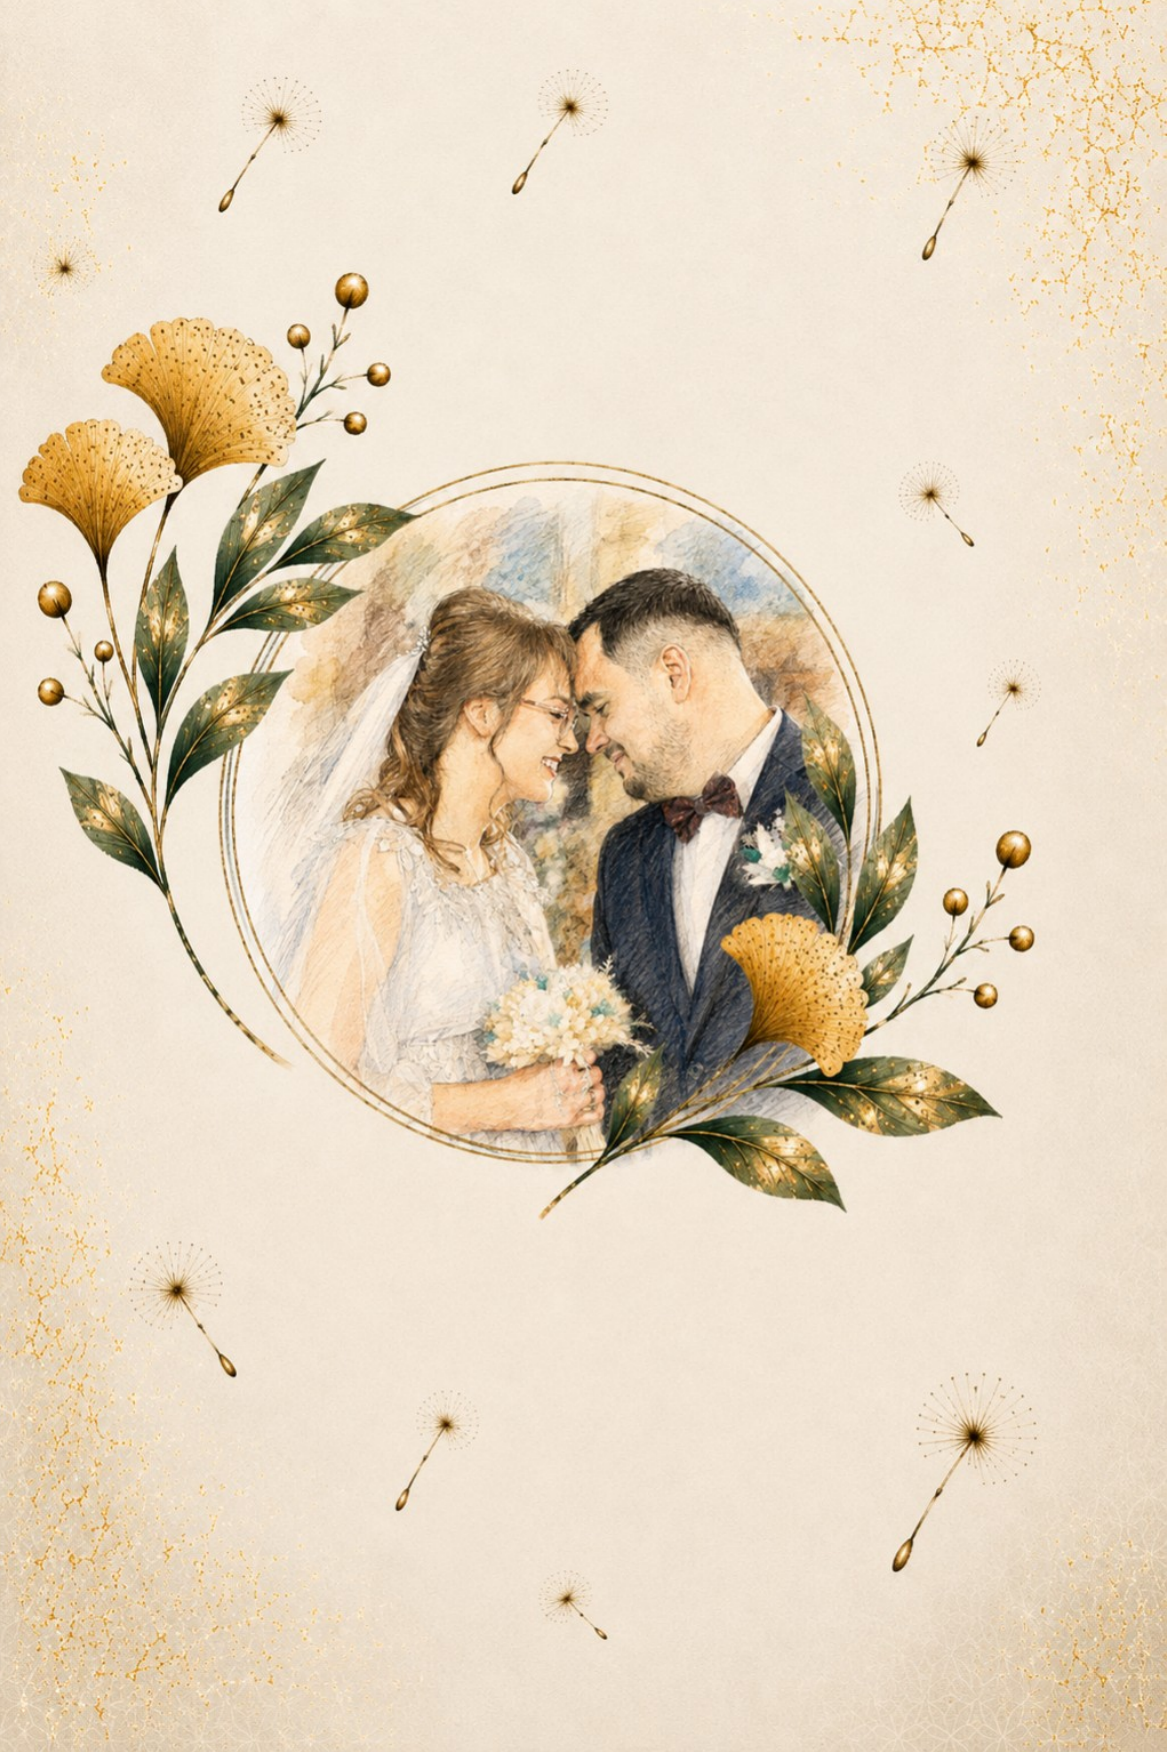
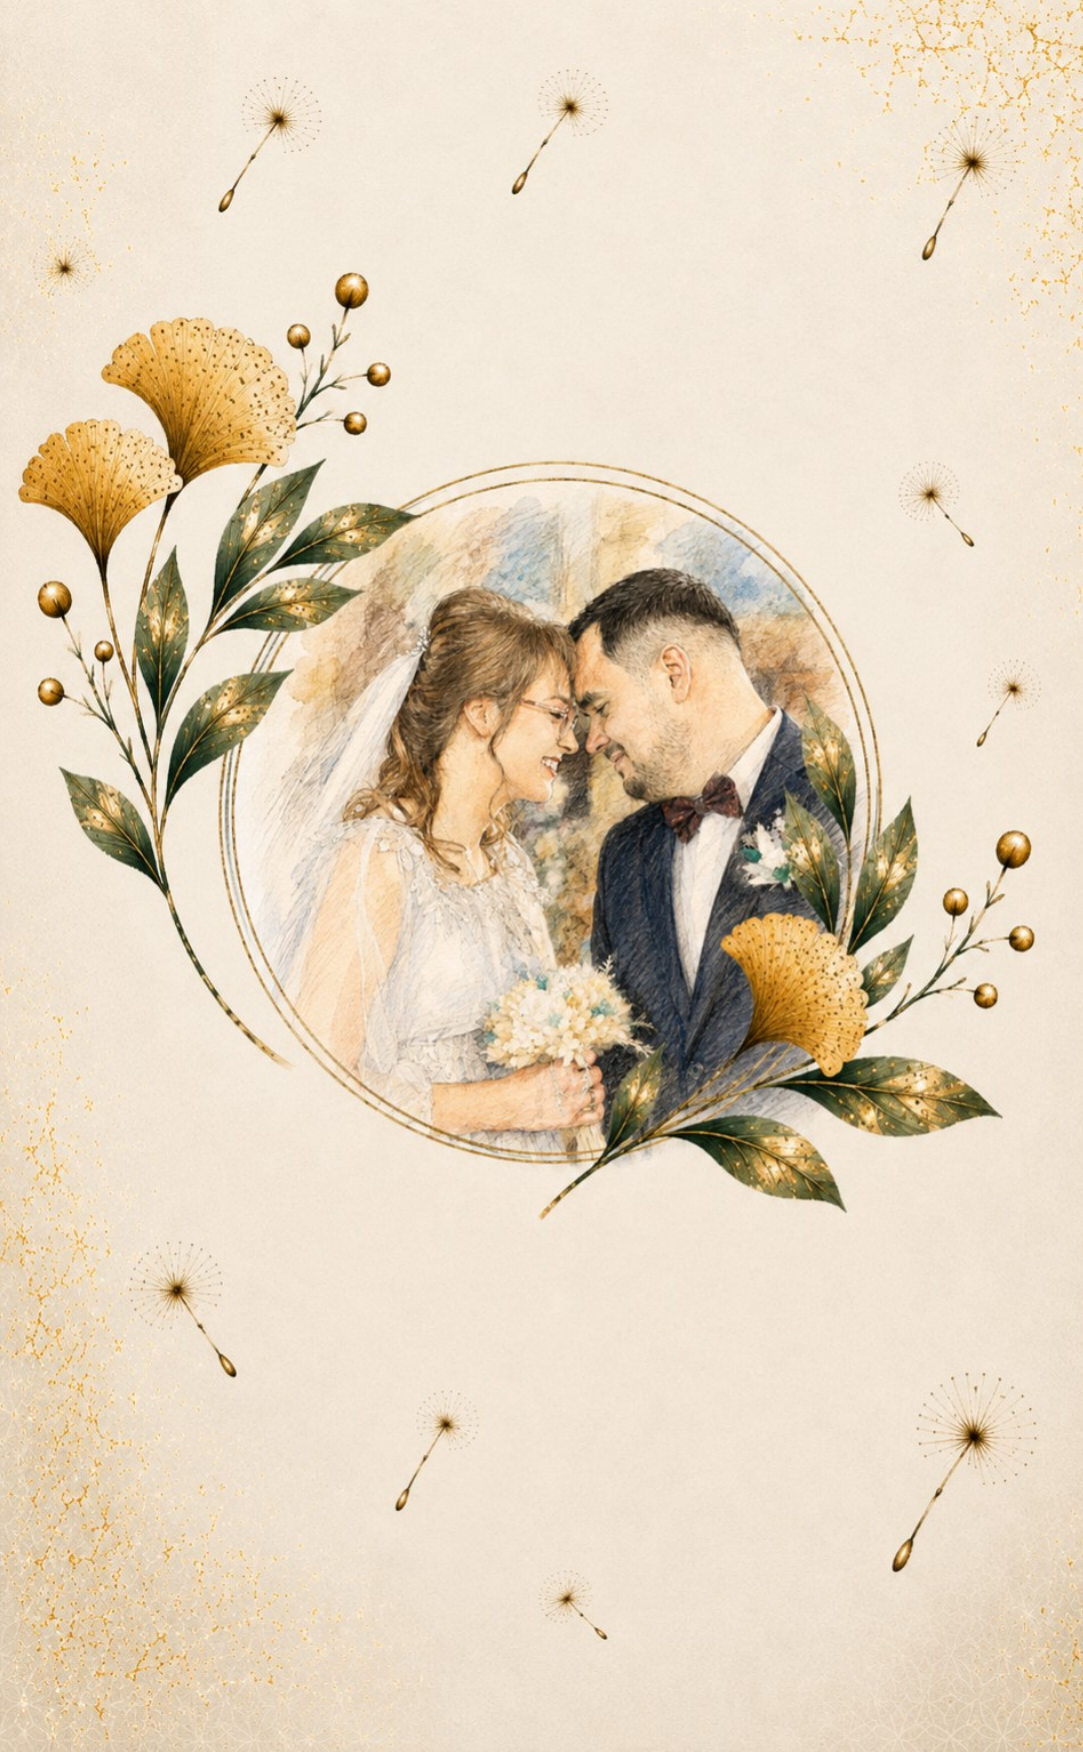
update : buttons deteled , invitation text moved up

diff --git a/index.html b/index.html
@@ -23,8 +23,6 @@
             <a class="menu-button" href="cununie.html">Cununia religioasa</a>
             <a class="menu-button" href="confirmare.html">Confirmare</a>
             <a class="menu-button" href="locatie.html">Locatie</a>
-            <a class="menu-button" href="preferinte.html">Preferinte</a>
-            <a class="menu-button" href="invitation.html">Invitație</a>
             <a class="menu-button" href="index.html?view=intro">Intro</a>
         </nav>
     </main>